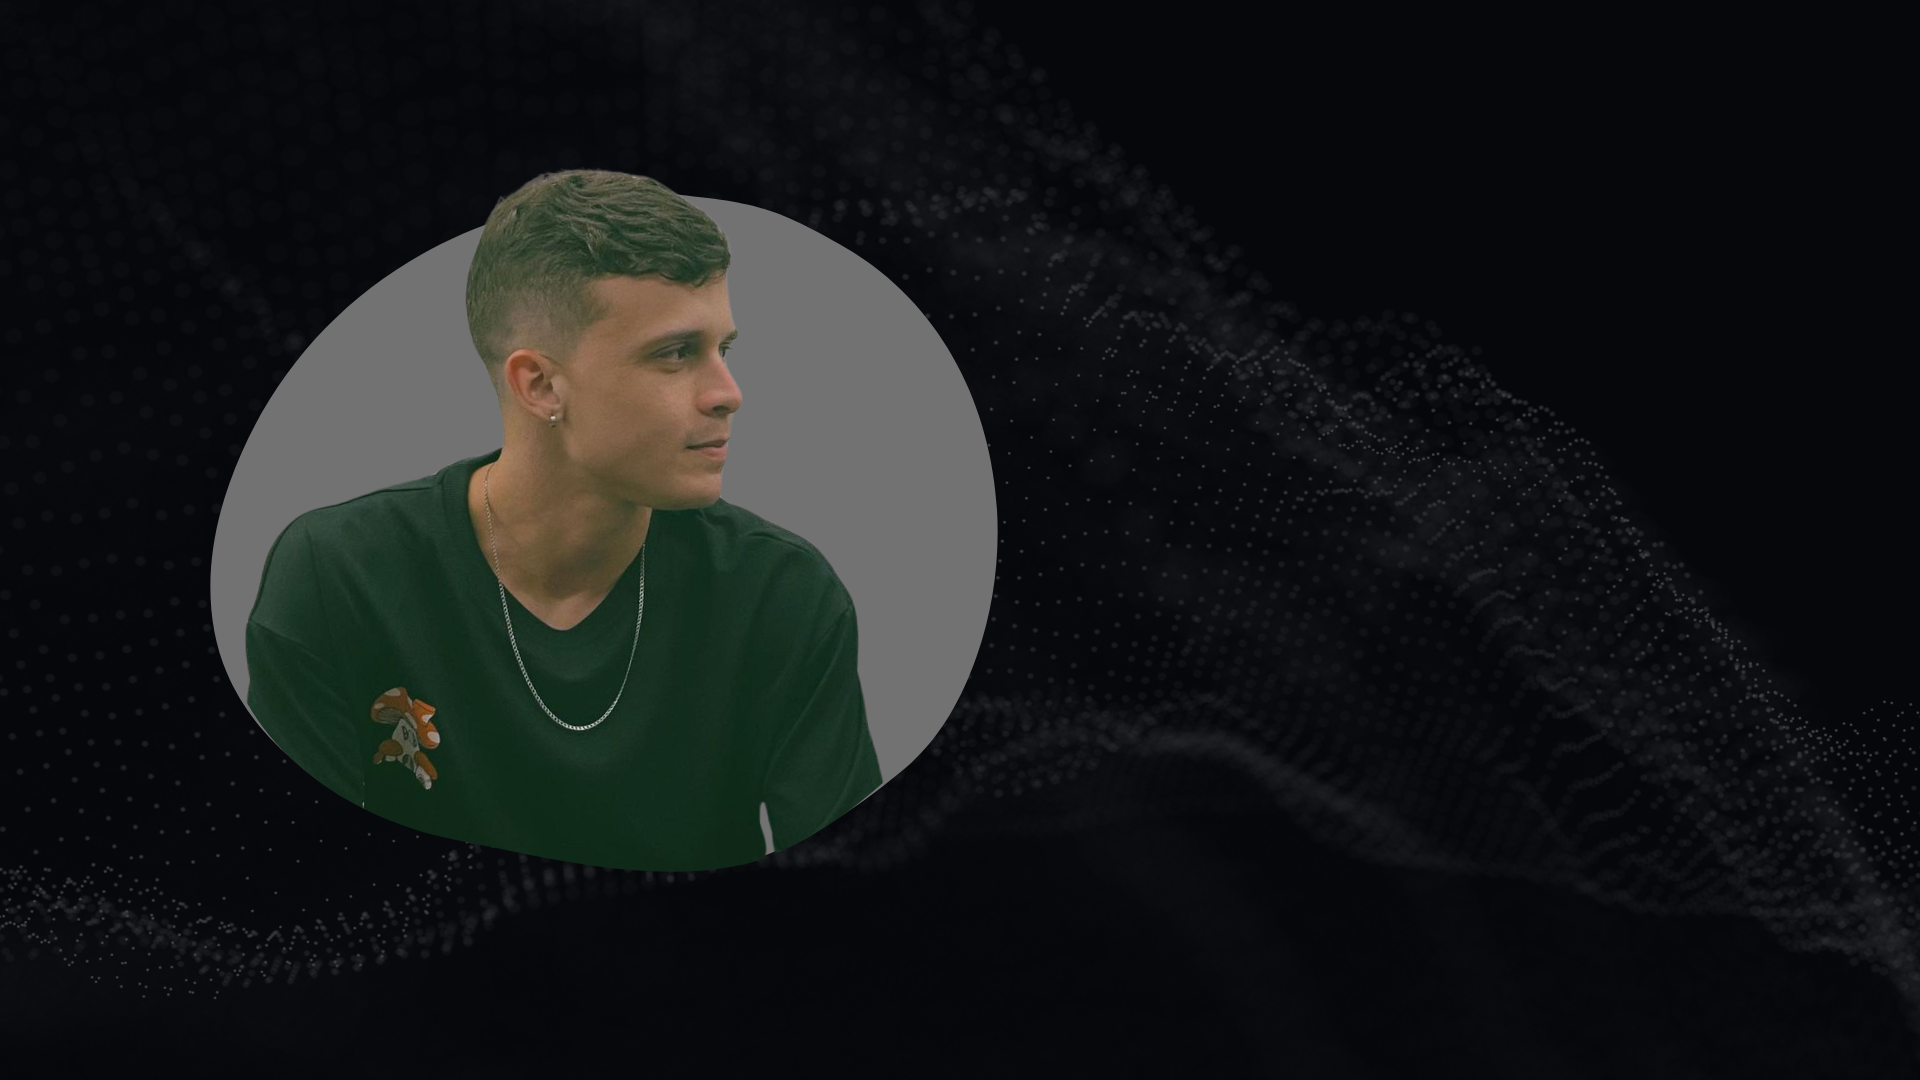
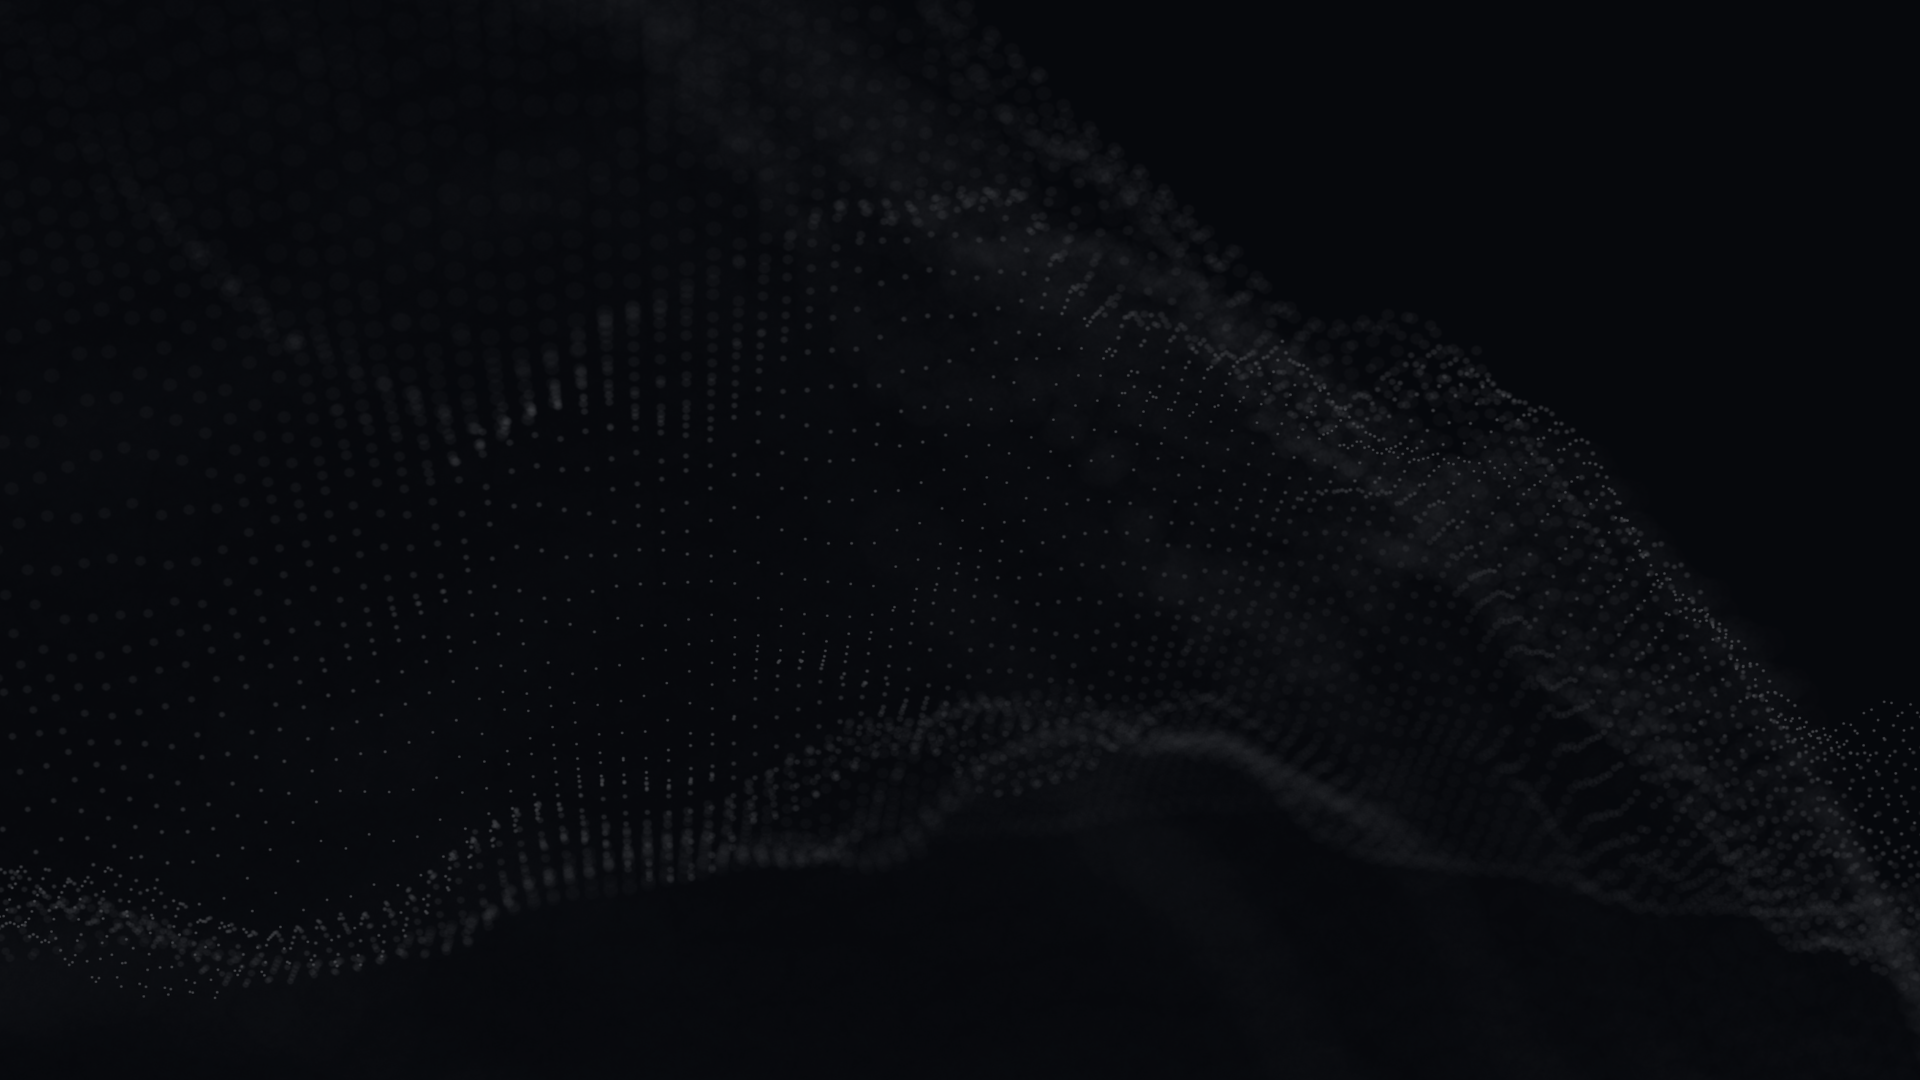
fix: ajustando carreira

Changed region(s): [[0.0938, 0.1528, 0.5312, 0.825]]

diff --git a/src/components/sections/experiencias/Experiencias.tsx b/src/components/sections/experiencias/Experiencias.tsx
@@ -3,8 +3,31 @@ import { ExperienciaItem } from "./ExperienciaItem";
 
 export function Experiencias() {
     return (
-        <Box bgcolor='#0B0414' p={{ md: 15, xs: 3 }} py={10} color='#FFF' id='experiencias'>
-            <Typography fontSize='2rem' mb={4} fontWeight='bold' align="center">Experiências</Typography>
+        <Box
+            bgcolor='#000'
+            p={{ md: 15, xs: 3 }}
+            py={10}
+            color='#FFF'
+            id='experiencias'
+        // sx={{
+        //     backgroundImage: 'url(/background.png)',
+        //     backgroundRepeat: 'no-repeat',
+        //     backgroundPosition: 'center',
+        //     backgroundSize: 'cover',
+        // }}
+        >
+            <Typography fontSize='2rem' mb={4} fontWeight='bold' align="center">Minha Carreira</Typography>
+
+            <ExperienciaItem
+                title="Analista de Implantação / QA"
+                company="Conversu"
+                avatarSrc="/conversuLogo.jpeg"
+                dates={["Outubro 2024", "Atualmente"]}
+                responsibilities={[]}
+                defaultExpanded
+            />
+
+            <Divider sx={{ bgcolor: '#FFF' }} />
 
             <ExperienciaItem
                 title="Desenvolvedor Fullstack"

diff --git a/src/components/layout/components/sectionIndex.tsx b/src/components/layout/components/sectionIndex.tsx
@@ -1,18 +1,19 @@
 import { Typography } from "@mui/material"
 
-export const SectionIndex = () =>{
-    return(
+export const SectionIndex = () => {
+    return (
         <Typography
-                    sx={{
-                        position: 'fixed',
-                        color: "#FFF",
-                        bottom: 20,
-                        left: 20,
-                        fontSize: '6rem',
-                        fontWeight: 600,
-                    }}
-                >
-                    01
-                </Typography>
+            sx={{
+                position: 'fixed',
+                color: "#FFF",
+                bottom: 20,
+                left: 20,
+                fontSize: '6rem',
+                fontWeight: 600,
+                zIndex: 1
+            }}
+        >
+            01
+        </Typography>
     )
 }

diff --git a/src/components/sections/sobre/Sobre.tsx b/src/components/sections/sobre/Sobre.tsx
@@ -5,7 +5,7 @@ export function Sobre() {
         <Box
             height='100vh'
             sx={{
-                backgroundImage: 'url(/background.png)',
+                backgroundImage: 'url(/background_main.png)',
                 backgroundRepeat: 'no-repeat',
                 backgroundPosition: 'center',
                 backgroundSize: 'cover',

diff --git a/src/components/layout/components/scrollDown.tsx b/src/components/layout/components/scrollDown.tsx
@@ -12,7 +12,8 @@ export const ScrollDown = () => {
                 flexDirection: 'column',
                 alignItems: 'center',
                 gap: 1,
-                color: "#FFF"
+                color: "#FFF",
+                zIndex: 1
             }}
         >
             <Typography>Scroll down</Typography>

diff --git a/src/components/layout/index.tsx b/src/components/layout/index.tsx
@@ -68,7 +68,6 @@ export function Appbar({ children }: Props) {
                 {/* CONTEÚDO PRINCIPAL */}
                 <Box
                     position='relative'
-                    zIndex={-1000}
                     flex={1}
                 >
                     {children}

diff --git a/src/components/layout/components/socialList.tsx b/src/components/layout/components/socialList.tsx
@@ -6,6 +6,7 @@ export const SocialList = () => {
         <Box
             sx={{
                 position: 'fixed',
+                zIndex: 1,
                 left: 20,
                 top: '50%',
                 transform: 'translateY(-50%)',
